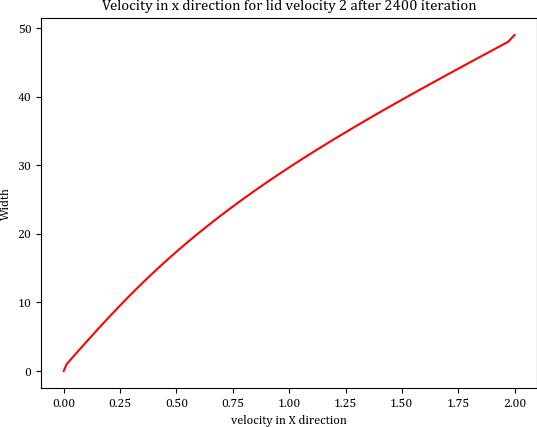
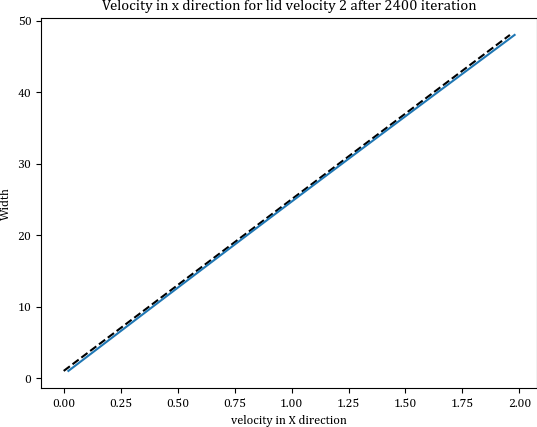
Couette_updtae [Analytical slightly varying]

diff --git a/simulattions/couette_flow.py b/simulattions/couette_flow.py
@@ -1,5 +1,4 @@
 """Library Imports"""
-from turtle import color
 import matplotlib.pyplot as plt
 import numpy as np
 from lbm_common import lbm 
@@ -17,30 +16,31 @@ def couette_flow_simulation(Nx: int, Ny: int, omega: float, output_dir: str, sav
     def visualize_couette(i):
         j= 0
         """Visual function for animate [Refer to animate]"""
-        axes[1].plot(couette_velocity_list[i], np.arange(Ny))
+        axes[1].plot(couette_velocity_list[i], couette_velocity_list_y[i])
+        # axes[1].plot(couette_velocity_list[i], np.arange(1,Ny))
         if(j == i):
             xmin, xmax, ymin, ymax = axes[1].axis()
             x = np.linspace(xmin, xmax)
-            y_max = np.full(len(x),ymax-2)
-            y_min = np.full(len(x),ymin+2)
+            y_max = np.full(len(x),Ny-2)
+            y_min = np.full(len(x),1)
             axes[1].set_ylabel("Width Ny")
             axes[1].set_xlabel("Velocity in X direction")
             axes[1].set_title('Couette Flow with lid velocity {}'.format(lid_vel))
             # setup for gif      
-            # axes[1].plot(x, y_min, color='k')
-            # axes[1].plot(x, y_max, color='r')
-            # axes[1].legend(['Analytical Flow','Simulated Flow','Rigid wall','Moving wall'])
+            axes[1].plot(x, y_min, color='k')
+            axes[1].plot(x, y_max, color='r')
+            axes[1].legend(['Analytical Flow','Simulated Flow','Rigid wall','Moving wall'])
         else:
             j = j+1
     
     
     def analytical_couette(y):
         """Define Analytical function for couette flow"""
-        x_vel = lid_vel * y/Ny        
+        x_vel = lid_vel * (y-1)/(Ny-2)        
         return x_vel
 
 
-    def animate(velocity):
+    def animate(velocity, couette_velocity_list_y):
         """Creates density animation"""
         anim = animation.FuncAnimation(figs[1],visualize_couette,repeat=True,frames=len(couette_velocity_list))     
         anim.save('{}/Couette_animation.gif'.format(output_dir),writer='imagemagic', fps=2)
@@ -56,15 +56,15 @@ def couette_flow_simulation(Nx: int, Ny: int, omega: float, output_dir: str, sav
     # Variable declaration
     common_path = os.path.join(output_dir, 'Couette_flow')    
     os.makedirs(common_path, exist_ok=True)
-    couette_velocity_list = []
+    couette_velocity_list, couette_velocity_list_y = [], []
+
 
     """Starts from here"""
     # initilization of the grids used    
     f = np.ones((Ny,Nx,9))
     velocity = np.zeros((Ny,Nx,2))
-    analytical_vel = analytical_couette(np.arange(Ny))
-    axes[0].plot(analytical_vel,np.arange(Ny), color = 'purple', linestyle='dashed')
-    axes[1].plot(analytical_vel,np.arange(Ny), color = 'purple', linestyle='dashed')
+    analytical_vel = analytical_couette(np.arange(1,Ny-1))    
+    axes[1].plot(analytical_vel,np.arange(1,Ny-1), color = 'black', linestyle='dashed')
         
     # Iteration starts from here
     for step in range(steps):
@@ -80,17 +80,38 @@ def couette_flow_simulation(Nx: int, Ny: int, omega: float, output_dir: str, sav
 
         # Saving steps 
         if save_every is not None and (not (step % save_every) and step!=0):
+
+            x_0 = velocity[-2,Nx//2,1]
+            x_1 = velocity[-3,Nx//2,1]
+            y_0 = Ny - 2
+            y_1 = Ny - 3
+            y_ex = Ny - 1.5
+            x_ex = (y_ex - (y_0-((y_1-y_0)/(x_1-x_0))*x_0))/((y_1-y_0)/(x_1-x_0))
+            low_y = 0.5
+            low_x1 = velocity[2,Nx//2,1]
+            low_x = low_y * low_x1
+            plt_velocity = velocity
+            # plt_velocity[0,Nx//2,1] = plt_velocity[1,Nx//2,1]
+            # plt_velocity[-1,Nx//2,1] = x_ex        
+            
             axes[0].cla()
             axes[0].set_ylabel("Width")
             axes[0].set_xlabel("velocity in X direction")
-            axes[0].plot(velocity[:,Nx//2,1], np.arange(Ny), color = 'r')
+            
+            # x_val = plt_velocity[1:-1,Nx//2,1]
+            x_val = plt_velocity[1:-1,Nx//2,1]
+            # y_val = np.arange(1,Ny-1)
+            y_val = np.arange(1,Ny-1)
+            axes[0].plot(analytical_vel,np.arange(1,Ny-1), color = 'black', linestyle='dashed')
+            axes[0].plot(x_val, y_val)            
+            # axes[0].plot(velocity[1:-1,Nx//2,1], np.arange(1,Ny-1), color = 'r')
             save_path = os.path.join(common_path, f'velocity_at{step}.png')
             axes[0].set_title('Velocity in x direction for lid velocity {} after {} iteration'.format(lid_vel, step))
             figs[0].savefig(save_path, bbox_inches='tight', pad_inches=0)
             axes[0].legend(['Analytical','Simulated'])
-            couette_velocity_list.append(velocity[:,Nx//2,1])        
+            couette_velocity_list.append(x_val)        
+            couette_velocity_list_y.append(y_val)        
+            # couette_velocity_list.append(velocity[1:-1,Nx//2,1])        
 
     # Animate the couette flow 
-    animate(couette_velocity_list)
-
-
+    animate(couette_velocity_list, couette_velocity_list_y)

diff --git a/init.py b/init.py
@@ -25,7 +25,7 @@ def experiment_type(type):
         Nx = 50
         Ny = 50
         steps = 4000
-        omega = 1
+        omega = 0.5
         output_dir = 'results'
         save_every = 200
         lid_velocity = 2
@@ -56,4 +56,4 @@ def experiment_type(type):
 """Define the experiemnt  category"""
 if __name__ == "__main__":
     # 'shear_wave', 'couette_flow', 'poiseuille_flow', 'sliding_lid'
-    experiment_type("poiseuille_flow")
+    experiment_type("couette_flow")
